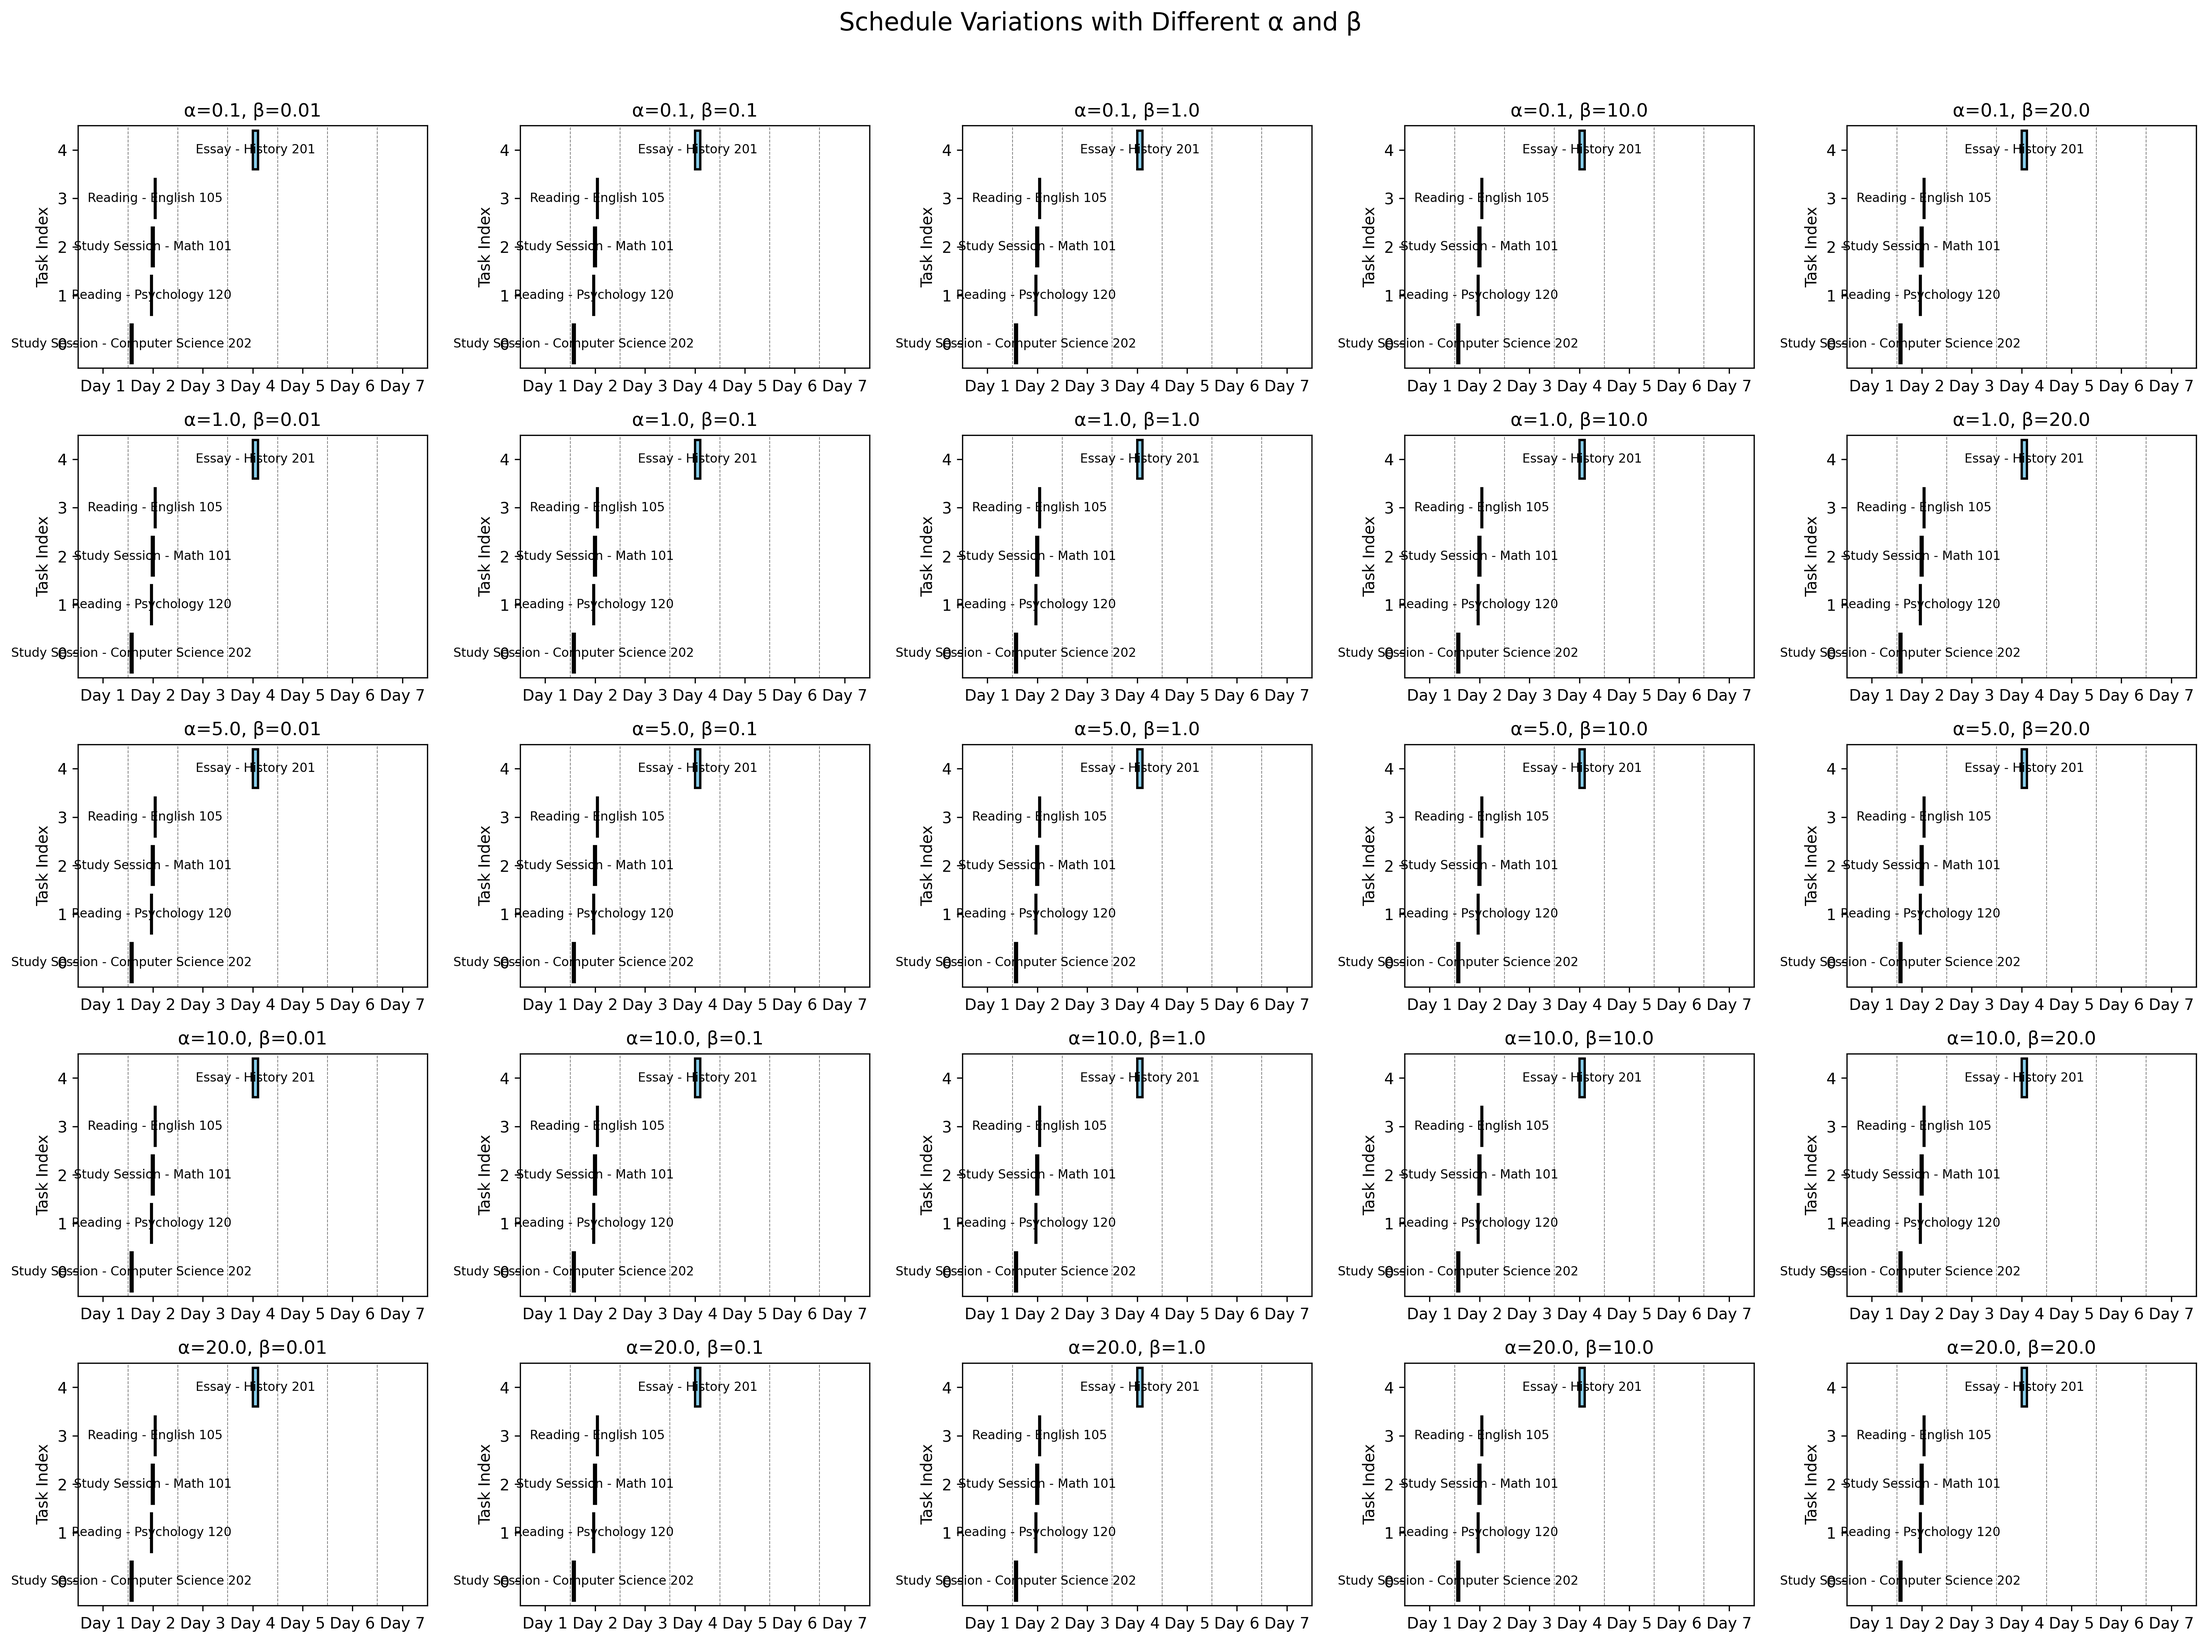
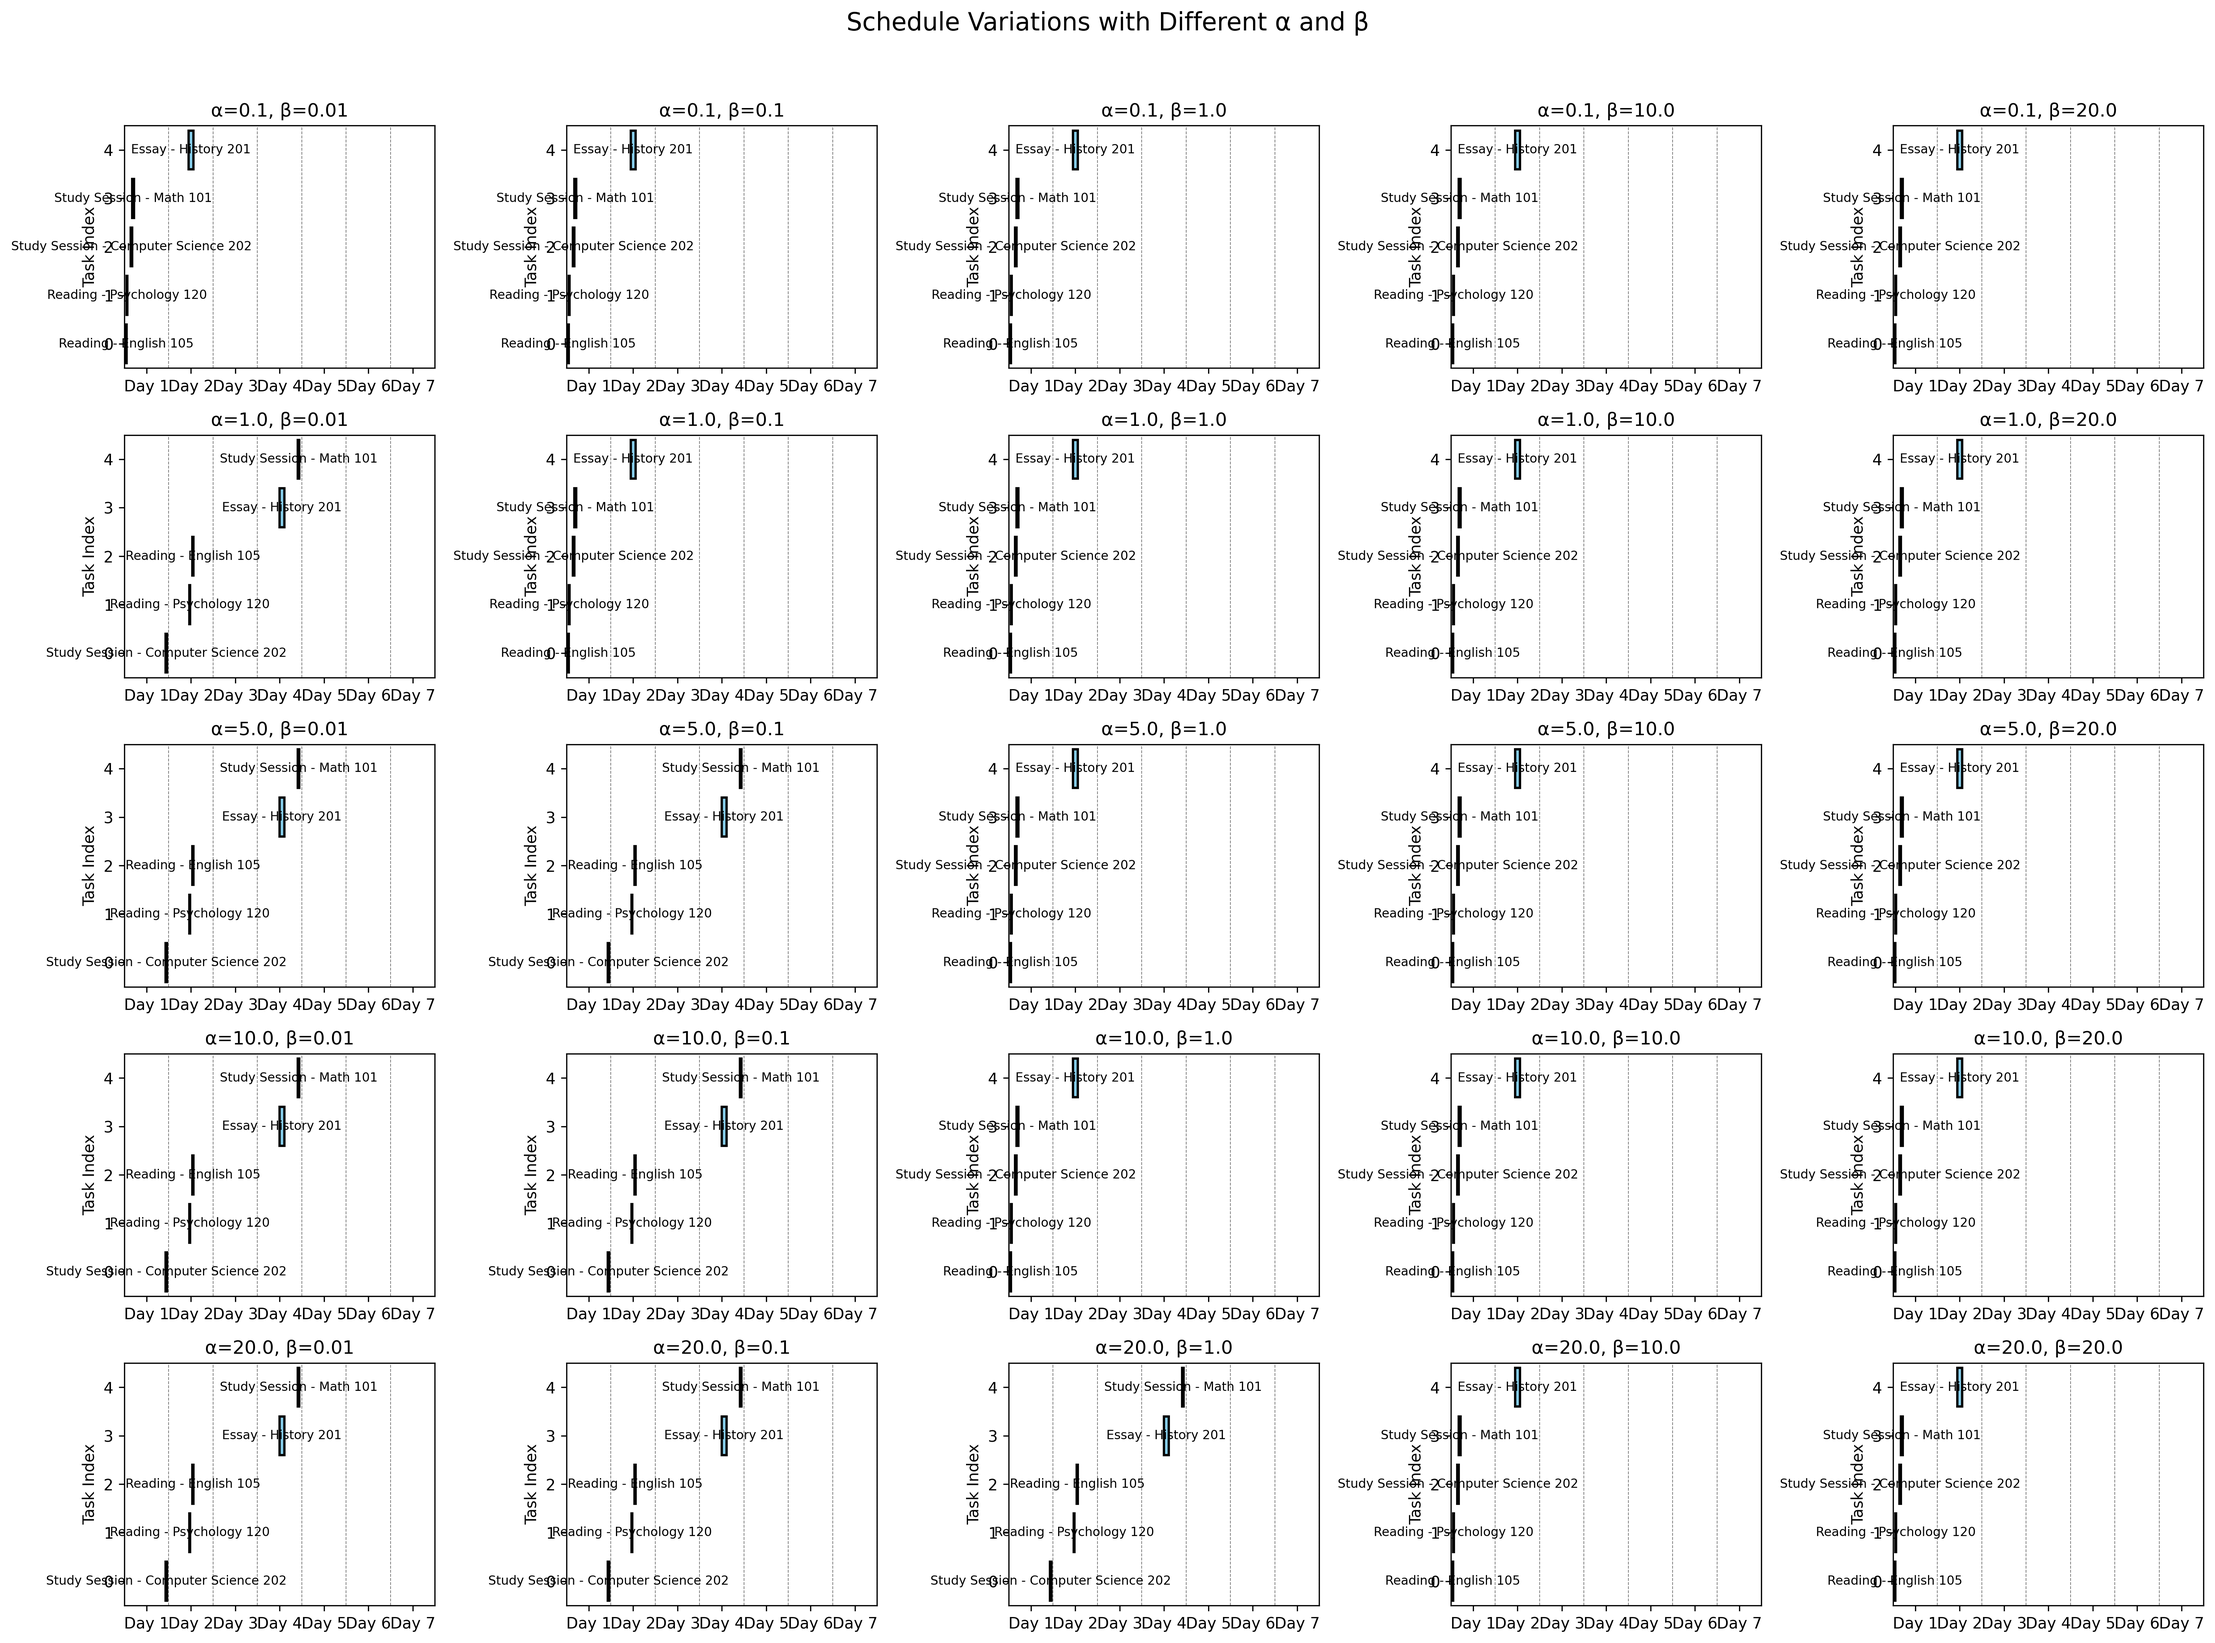
Add Daily Limit slider

diff --git a/project/src/App.tsx b/project/src/App.tsx
@@ -47,6 +47,7 @@ function App() {
   const [endHour, setEndHour] = useState(22); // User preference end
   const [alpha, setAlpha] = useState(1.0); // Default alpha for leisure weight
   const [beta, setBeta] = useState(0.1); // Default beta for stress weight
+  const [dailyLimit, setDailyLimit] = useState<number | null>(null); // Default: no daily limit
   const [optimizedSchedule, setOptimizedSchedule] = useState<OptimizedSchedule>(
     {},
   );
@@ -143,7 +144,7 @@ function App() {
     setOptimizedSchedule({});
     setOptimizationResult((prev) => ({ ...prev, filteredTasksInfo: null })); // Clear filtered info too
     setError(null); // Also clear general errors
-  }, [tasks, blockedIntervals, startHour, endHour, modelType, alpha, beta]); // Include alpha/beta in deps
+  }, [tasks, blockedIntervals, startHour, endHour, modelType, alpha, beta, dailyLimit]); // Include all optimization settings in deps
 
   // Helper to get task by ID
   const getTaskById = useCallback(
@@ -340,6 +341,7 @@ function App() {
         modelType: modelType,
         alpha: alpha, // Add alpha parameter for leisure weight
         beta: beta,   // Add beta parameter for stress weight
+        dailyLimit: dailyLimit, // Add daily limit parameter
       },
     };
 
@@ -833,11 +835,13 @@ function App() {
               modelType={modelType}
               alpha={alpha}
               beta={beta}
+              dailyLimit={dailyLimit}
               onStartHourChange={setStartHour}
               onEndHourChange={setEndHour}
               onModelTypeChange={setModelType}
               onAlphaChange={setAlpha}
               onBetaChange={setBeta}
+              onDailyLimitChange={setDailyLimit}
               onShowExplanation={() => setShowExplanation(true)}
             />
 

diff --git a/project/src/components/TimeWindow.tsx b/project/src/components/TimeWindow.tsx
@@ -2,6 +2,7 @@ import React from "react";
 import { Settings } from "lucide-react";
 import ModelToggle from "./ModelToggle";
 import TradeoffSlider from "./TradeoffSlider";
+import DailyLimit from "./DailyLimit";
 
 interface TimeWindowProps {
   startHour: number;
@@ -9,11 +10,13 @@ interface TimeWindowProps {
   modelType: "deadline_penalty" | "no_y";
   alpha: number;
   beta: number;
+  dailyLimit: number | null;
   onStartHourChange: (hour: number) => void;
   onEndHourChange: (hour: number) => void;
   onModelTypeChange: (modelType: "deadline_penalty" | "no_y") => void;
   onAlphaChange: (value: number) => void;
   onBetaChange: (value: number) => void;
+  onDailyLimitChange: (value: number | null) => void;
   onShowExplanation: () => void;
 }
 
@@ -23,11 +26,13 @@ const TimeWindow: React.FC<TimeWindowProps> = ({
   modelType,
   alpha,
   beta,
+  dailyLimit,
   onStartHourChange,
   onEndHourChange,
   onModelTypeChange,
   onAlphaChange,
   onBetaChange,
+  onDailyLimitChange,
   onShowExplanation,
 }) => {
   return (
@@ -89,12 +94,18 @@ const TimeWindow: React.FC<TimeWindowProps> = ({
       </div>
       
       {/* Add optimization tradeoff slider */}
-      <div className="mt-6 border-t border-gray-700 pt-6">
+      <div className="mt-6 border-t border-gray-700 pt-6 space-y-6">
         <TradeoffSlider
           alpha={alpha}
           beta={beta}
           onAlphaChange={onAlphaChange}
           onBetaChange={onBetaChange}
+        />
+        
+        {/* Add daily limit control */}
+        <DailyLimit
+          dailyLimit={dailyLimit}
+          onDailyLimitChange={onDailyLimitChange}
         />
       </div>
     </div>

diff --git a/app.py b/app.py
@@ -44,7 +44,8 @@ def auto_generate_tasks(num_tasks=10):
         "Math 101", "Computer Science 202", "Physics 150", "English 105",
         "History 201", "Chemistry 110", "Economics 230", "Psychology 120"
     ]
-    pref_choices = ["morning", "afternoon", "evening", "any"]
+    # pref_choices = ["morning", "afternoon", "evening", "any"]
+    pref_choices = ["any"]
 
     tasks = []
     # Use default hours for generation logic's date reference
@@ -90,6 +91,7 @@ def auto_generate_tasks(num_tasks=10):
             "preference": pref
         })
     print(f"Generated {len(tasks)} tasks.")
+    print(tasks)
     return tasks
 
 def auto_generate_blocked(n_intervals=8):
@@ -357,7 +359,7 @@ def optimize_schedule():
 
         # --- Parse Other Settings (alpha, beta, daily limit) ---
         settings_errors = []
-        
+
         # Get alpha (leisure weight) from settings or use default
         alpha = settings_input.get('alpha', 1.0)
         try:
@@ -368,7 +370,7 @@ def optimize_schedule():
         except (ValueError, TypeError):
             settings_errors.append(f"Invalid alpha value: {alpha}. Using default of 1.0.")
             alpha = 1.0
-            
+
         # Get beta (stress weight) from settings or use default
         beta = settings_input.get('beta', 0.1)
         try:
@@ -379,7 +381,7 @@ def optimize_schedule():
         except (ValueError, TypeError):
             settings_errors.append(f"Invalid beta value: {beta}. Using default of 0.1.")
             beta = 0.1
-            
+
         daily_limit_slots = None # Default no limit
 
         # --- Combine Errors and Check ---

diff --git a/schedule_variation_visualisation.py b/schedule_variation_visualisation.py
@@ -28,7 +28,7 @@ import os
 from datetime import datetime, timedelta
 
 # Import the scheduler and data generation functions from your modules
-from allocation_logic_no_y import solve_schedule_gurobi as solve_no_y, get_day0_ref_midnight, datetime_to_slot
+from allocation_logic_deadline_penalty import solve_schedule_gurobi as solve_no_y, get_day0_ref_midnight, datetime_to_slot
 from app import auto_generate_tasks, auto_generate_blocked
 
 # Create output directory for schedule charts
